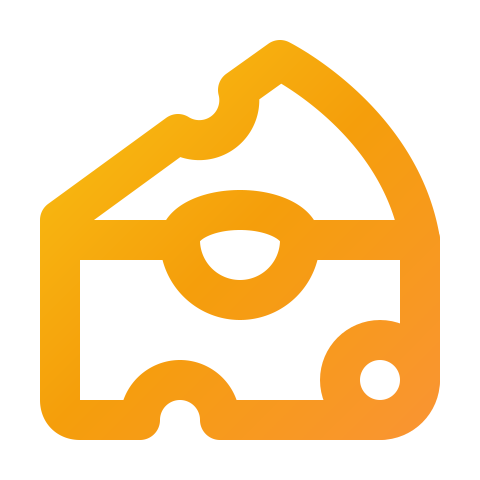
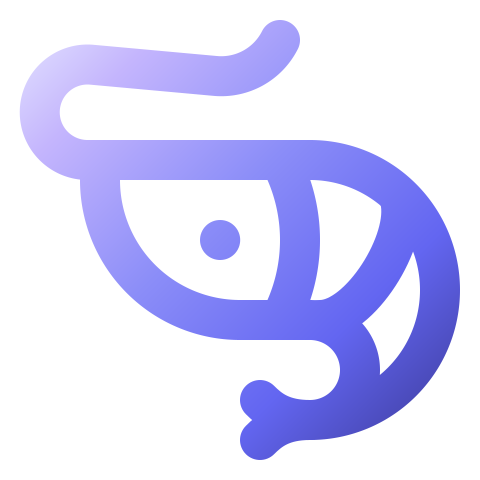
update 1.0.0

diff --git a/src/renderer/src/App.tsx b/src/renderer/src/App.tsx
@@ -47,8 +47,7 @@ import {
 } from "./features/tools/ConversionTools";
 import { ChatFeature } from "./features/chat/ChatDrawer";
 import { appendLiveBatch, clearViewport } from "./hooks/useLogStore";
-import closeMouthLogo from "./assets/close-mouth-logo.png";
-import openMouthLogo from "./assets/open-mouth-logo.png";
+import splashIcon from "./assets/icon.png";
 import { MAX_PROJECTS } from "../../shared/appLimits";
 import type {
   AppSection,
@@ -70,13 +69,13 @@ import type {
 } from "./types";
 
 const SPLASH_READY_FRAME_MS = 800;
-const SPLASH_FADE_OUT_MS = 1100;
-const SPLASH_LOGO_SIZE = "min(90px, 11vw)";
+const SPLASH_EXIT_HOLD_MS = 800;
+const SPLASH_FADE_OUT_MS = 420;
+const SPLASH_LOGO_SIZE = "min(56px, 7vw)";
 const INITIAL_STATE_LOAD_TIMEOUT_MS = 10000;
 const PROJECT_STATE_LOAD_TIMEOUT_MS = 8000;
 const DATABASE_IDLE_DISCONNECT_MS = 2 * 60 * 1000;
 
-type SplashFrame = "open" | "close";
 type SplashPhase = "visible" | "exiting" | "hidden";
 type SnackbarState = {
   message: string;
@@ -165,7 +164,6 @@ function App(): JSX.Element {
   const [stoppedServices, setStoppedServices] = useState<Set<string>>(
     new Set(),
   );
-  const [splashFrame, setSplashFrame] = useState<SplashFrame>("close");
   const [splashPhase, setSplashPhase] = useState<SplashPhase>("visible");
   const [snackbar, setSnackbar] = useState<SnackbarState | null>(null);
   const [snackbarClosing, setSnackbarClosing] = useState(false);
@@ -638,17 +636,15 @@ function App(): JSX.Element {
     }
 
     splashSequenceStartedRef.current = true;
-    setSplashFrame("open");
 
     const timers = [
-      window.setTimeout(() => setSplashFrame("close"), SPLASH_READY_FRAME_MS),
       window.setTimeout(
         () => setSplashPhase("exiting"),
-        SPLASH_READY_FRAME_MS * 2,
+        SPLASH_READY_FRAME_MS + SPLASH_EXIT_HOLD_MS,
       ),
       window.setTimeout(
         () => setSplashPhase("hidden"),
-        SPLASH_READY_FRAME_MS * 2 + SPLASH_FADE_OUT_MS,
+        SPLASH_READY_FRAME_MS + SPLASH_EXIT_HOLD_MS + SPLASH_FADE_OUT_MS,
       ),
     ];
 
@@ -1194,20 +1190,8 @@ function App(): JSX.Element {
   const splashOverlay =
     splashPhase !== "hidden" ? (
       <div className={`splash-screen ${splashPhase}`} aria-hidden="true">
-        <div
-          className={`splash-logo-stack showing-${splashFrame}`}
-          style={{ width: SPLASH_LOGO_SIZE }}
-        >
-          <img
-            className="splash-logo splash-logo-open"
-            src={openMouthLogo}
-            alt=""
-          />
-          <img
-            className="splash-logo splash-logo-close"
-            src={closeMouthLogo}
-            alt=""
-          />
+        <div className="splash-logo-shell" style={{ width: SPLASH_LOGO_SIZE }}>
+          <img className="splash-logo" src={splashIcon} alt="" />
         </div>
       </div>
     ) : null;

diff --git a/src/renderer/src/components/layout/Sidebar.tsx b/src/renderer/src/components/layout/Sidebar.tsx
@@ -247,32 +247,32 @@ export function Sidebar({
             height="27"
             viewBox="0 0 24 24"
             fill="none"
-            stroke="url(#cheeseGradient)"
+            stroke="url(#shrimpGradient)"
             stroke-width="2"
             stroke-linecap="round"
             stroke-linejoin="round"
-            className="lucide lucide-cheese-icon lucide-cheese"
+            className="lucide lucide-shrimp-icon lucide-shrimp"
           >
             <defs>
               <linearGradient
-                id="cheeseGradient"
+                id="shrimpGradient"
                 x1="0"
                 y1="0"
                 x2="24"
                 y2="24"
                 gradientUnits="userSpaceOnUse"
               >
-                <stop offset="0%" stop-color="#facc15" />
-                <stop offset="50%" stop-color="#f59e0b" />
-                <stop offset="100%" stop-color="#fb923c" />
+                <stop offset="0%" stop-color="#c4b5fd" />
+                <stop offset="45%" stop-color="#8b8df8" />
+                <stop offset="100%" stop-color="#6366f1" />
               </linearGradient>
             </defs>
 
-            <path d="M21 19v-7c-1-6-7-9-7-9l-2.1 1.5a2 2 0 0 1-3 2.2L3 11v9c0 .6.4 1 1 1h3a2 2 0 0 1 4 0h8" />
-            <path d="M9 12H3" />
-            <path d="M9 12c0-.8 1.3-1.5 3-1.5s3 .7 3 1.5a3 3 0 1 1-6 0" />
-            <path d="M21 12h-6" />
-            <circle cx="19" cy="19" r="2" />
+            <path d="M11 12h.01" />
+            <path d="M13 22c.5-.5 1.12-1 2.5-1-1.38 0-2-.5-2.5-1" />
+            <path d="M14 2a3.28 3.28 0 0 1-3.227 1.798l-6.17-.561A2.387 2.387 0 1 0 4.387 8H15.5a1 1 0 0 1 0 13 1 1 0 0 0 0-5H12a7 7 0 0 1-7-7V8" />
+            <path d="M14 8a8.5 8.5 0 0 1 0 8" />
+            <path d="M16 16c2 0 4.5-4 4-6" />
           </svg>
         </div>
         <span className="brand-label">IVS Dashboard</span>

diff --git a/src/renderer/src/styles.css b/src/renderer/src/styles.css
@@ -389,34 +389,39 @@ body {
   position: fixed;
   inset: 0;
   z-index: 10000;
-  display: grid;
-  place-items: center;
   background: var(--app-bg);
   opacity: 1;
   pointer-events: none;
+  overflow: hidden;
 }
 
 .splash-screen.exiting {
-  animation: splash-fade-out 300ms ease forwards;
+  animation: splash-fade-out 160ms linear 200ms forwards;
 }
 
-.splash-logo-stack {
-  display: grid;
-  animation: splash-logo-in 180ms ease both;
+.splash-logo-shell {
+  position: fixed;
+  top: 50%;
+  left: 50%;
+  transform: translate(-50%, -50%);
+  will-change: opacity;
 }
 
 .splash-logo {
-  grid-area: 1 / 1;
+  display: block;
   width: 100%;
   height: auto;
   object-fit: contain;
-  opacity: 0;
+  opacity: 1;
   user-select: none;
+  transform: translate3d(0, 0, 0) scale(1);
+  transform-origin: center;
+  animation: splash-logo-in 240ms cubic-bezier(0.22, 1, 0.36, 1) both;
+  will-change: transform, opacity;
 }
 
-.splash-logo-stack.showing-open .splash-logo-open,
-.splash-logo-stack.showing-close .splash-logo-close {
-  opacity: 1;
+.splash-screen.exiting .splash-logo {
+  animation: splash-logo-out 360ms cubic-bezier(0.24, 0.8, 0.3, 1) forwards;
 }
 
 @keyframes splash-fade-out {
@@ -431,11 +436,26 @@ body {
 @keyframes splash-logo-in {
   from {
     opacity: 0;
-    transform: scale(0.96);
+    transform: translate3d(0, 0, 0) scale(0.68);
   }
   to {
     opacity: 1;
-    transform: scale(1);
+    transform: translate3d(0, 0, 0) scale(1);
+  }
+}
+
+@keyframes splash-logo-out {
+  0% {
+    opacity: 1;
+    transform: translate3d(0, 0, 0) scale(1);
+  }
+  35% {
+    opacity: 1;
+    transform: translate3d(0, 0, 0) scale(1.08);
+  }
+  100% {
+    opacity: 0;
+    transform: translate3d(0, 0, 0) scale(0.14);
   }
 }
 

diff --git a/src/main/index.ts b/src/main/index.ts
@@ -16,7 +16,6 @@ import {
   existsSync,
   mkdirSync,
   readFileSync,
-  statSync,
   writeFileSync,
 } from "node:fs";
 import { hostname } from "node:os";
@@ -1382,8 +1381,6 @@ function escapeXmlAttribute(value: string): string {
   return escapeXmlText(value).replace(/"/g, "&quot;");
 }
 
-const MAX_TOAST_IMAGE_BYTES = 400 * 1024;
-
 function resolveAppIconPath(): string | undefined {
   const candidates = [
     join(process.resourcesPath, "icon.ico"),
@@ -1395,27 +1392,19 @@ function resolveAppIconPath(): string | undefined {
 
 function resolveNotificationIconPath(): string | null {
   const candidates = [
-    join(process.resourcesPath, "toast-icon.png"),
+    join(process.resourcesPath, "icon.ico"),
     join(
       app.getAppPath(),
       "src",
       "renderer",
       "src",
       "assets",
-      "toast-icon.png",
+      "icon.ico",
     ),
   ];
 
   for (const candidate of candidates) {
     if (!existsSync(candidate)) {
-      continue;
-    }
-
-    try {
-      if (statSync(candidate).size > MAX_TOAST_IMAGE_BYTES) {
-        continue;
-      }
-    } catch {
       continue;
     }
 

diff --git a/forge.config.js b/forge.config.js
@@ -117,6 +117,14 @@ module.exports = {
   packagerConfig: {
     asar: true,
     prune: true,
+    icon: path.join(
+      __dirname,
+      "src",
+      "renderer",
+      "src",
+      "assets",
+      "icon.ico",
+    ),
     extraResource: [
       path.join(
         __dirname,
@@ -125,14 +133,6 @@ module.exports = {
         "src",
         "assets",
         "icon.ico",
-      ),
-      path.join(
-        __dirname,
-        "src",
-        "renderer",
-        "src",
-        "assets",
-        "toast-icon.png",
       ),
       path.join(__dirname, ".env"),
     ],
